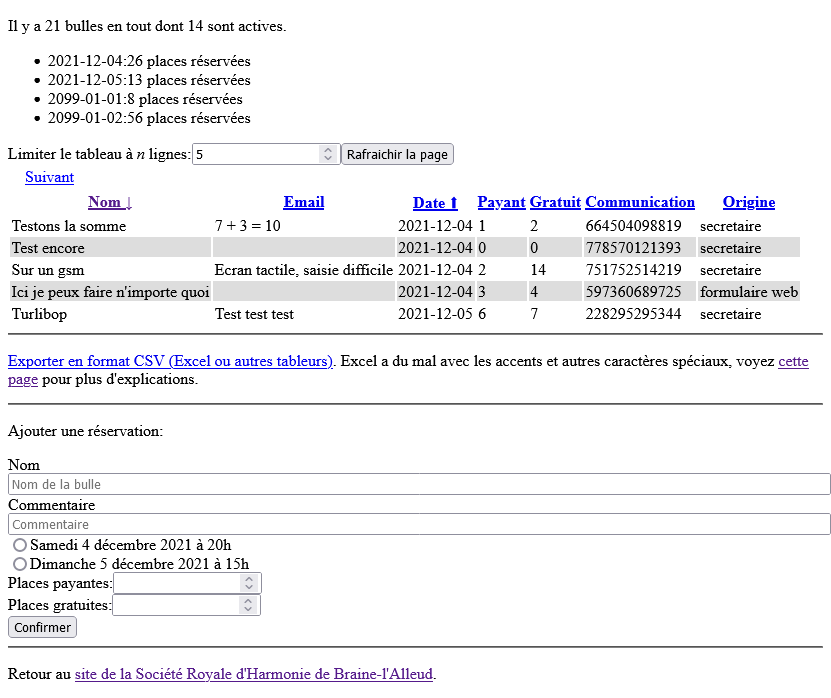
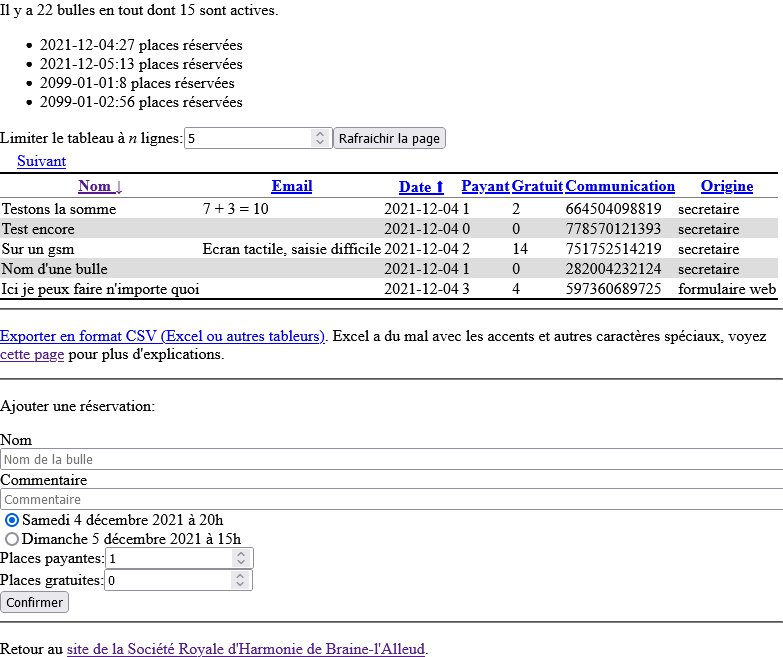
Limit list_reservations to active reservations, continue doc & tweak CSS

Changed region(s): [[0.0, 0.274, 1.0, 0.5784], [0.0, 0.6088, 1.0, 1.0], [0.0, 0.0, 0.5824, 0.274]]

diff --git a/python/srhsdf/tests/golden/06_list_reservations.html b/python/srhsdf/tests/golden/06_list_reservations.html
@@ -1,1 +1,1 @@
-<!DOCTYPE HTML><html lang="fr"><head><meta charset="utf-8"/><meta name="viewport" content="width=device-width, initial-scale=1.0"/><title>List of reservations</title><link rel="stylesheet" href="styles.css"/></head><body><p>Il y a 3 bulles en tout dont 3 sont actives.</p><ul><li>2021-12-04:5 places réservées</li><li>2021-12-05:2 places réservées</li><li>2099-01-01:8 places réservées</li></ul><form action="/TEST_DIR/gestion/list_reservations.cgi"><label for="limit">Limiter le tableau à <em>n</em> lignes:</label><input id="limit" type="number" name="limit" min="5" value="7" max="10000"/><input type="submit" value="Rafraichir la page"/><input id="sort_order" name="sort_order" type="hidden" value="date"/><input id="sort_order" name="sort_order" type="hidden" value="name"/><input id="offset" name="offset" type="hidden" value="1"/></form><ul class="navbar"><li><a class="navigation" href="https://pcrama.sdf-eu.org/TEST_DIR/gestion/list_reservations.cgi?limit=7&amp;offset=0&amp;sort_order=date&amp;sort_order=name">Début</a></li></ul><table><tr><th><a class="navigation" href="https://pcrama.sdf-eu.org/TEST_DIR/gestion/list_reservations.cgi?limit=7&amp;offset=1&amp;sort_order=name&amp;sort_order=date">Nom ↑</a></th><th><a class="navigation" href="https://pcrama.sdf-eu.org/TEST_DIR/gestion/list_reservations.cgi?limit=7&amp;offset=1&amp;sort_order=email&amp;sort_order=date&amp;sort_order=name">Email</a></th><th><a class="navigation" href="https://pcrama.sdf-eu.org/TEST_DIR/gestion/list_reservations.cgi?limit=7&amp;offset=1&amp;sort_order=DATE&amp;sort_order=name">Date ⬆</a></th><th><a class="navigation" href="https://pcrama.sdf-eu.org/TEST_DIR/gestion/list_reservations.cgi?limit=7&amp;offset=1&amp;sort_order=paying_seats&amp;sort_order=date&amp;sort_order=name">Payant</a></th><th><a class="navigation" href="https://pcrama.sdf-eu.org/TEST_DIR/gestion/list_reservations.cgi?limit=7&amp;offset=1&amp;sort_order=free_seats&amp;sort_order=date&amp;sort_order=name">Gratuit</a></th><th><a class="navigation" href="https://pcrama.sdf-eu.org/TEST_DIR/gestion/list_reservations.cgi?limit=7&amp;offset=1&amp;sort_order=bank_id&amp;sort_order=date&amp;sort_order=name">Communication</a></th><th><a class="navigation" href="https://pcrama.sdf-eu.org/TEST_DIR/gestion/list_reservations.cgi?limit=7&amp;offset=1&amp;sort_order=origin&amp;sort_order=date&amp;sort_order=name">Origine</a></th></tr><tr><td>Sunday</td><td>SundayMail@gmx.com</td><td>2021-12-05</td><td>1</td><td>1</td><td>COMMUNICATION Sunday</td><td><span class="null_value">formulaire web</span></td></tr><tr><td>TestName</td><td>Test.Email@example.com</td><td>2099-01-01</td><td>3</td><td>5</td><td>COMMUNICATION TestName</td><td><span class="null_value">formulaire web</span></td></tr></table><hr/><p><a href="export_csv.cgi?name=export.csv">Exporter en format CSV (Excel ou autres tableurs)</a>. Excel a du mal avec les accents et autres caractères spéciaux, voyez <a href="https://www.nextofwindows.com/how-to-display-csv-files-with-unicode-utf-8-encoding-in-excel">cette page</a> pour plus d'explications.</p><hr/><p>Ajouter une réservation:</p><form method="post" action="add_unchecked_reservation.cgi"><input type="hidden" id="csrf_token" name="csrf_token" value="CSRF_TOKEN"/><label for="name">Nom</label><input id="name" name="name" type="text" placeholder="Nom de la bulle" required="required" style="width:100%;"/><br/><label for="comment">Commentaire</label><input id="comment" name="comment" type="text" placeholder="Commentaire" required="required" style="width:100%;"/><br/><input id="samedi" name="date" type="radio" value="2021-12-04"/><label for="samedi">Samedi 4 décembre 2021 à 20h</label><br/><input id="dimanche" name="date" type="radio" value="2021-12-05"/><label for="dimanche">Dimanche 5 décembre 2021 à 15h</label><br/><label for="paying_seats">Places payantes:</label><input id="paying_seats" name="paying_seats" type="number" min="0"/><br/><label for="free_seats">Places gratuites:</label><input id="free_seats" name="free_seats" type="number" min="0"/><br/><input type="submit" value="Confirmer"/></form><hr/><p>Retour au <a href="https://www.srhbraine.be/">site de la Société Royale d'Harmonie de Braine-l'Alleud</a>.</p></body></html>
+<!DOCTYPE HTML><html lang="fr"><head><meta charset="utf-8"/><meta name="viewport" content="width=device-width, initial-scale=1.0"/><title>List of reservations</title><link rel="stylesheet" href="styles.css"/></head><body><p>Il y a 3 bulles en tout dont 3 sont actives.</p><ul><li>2021-12-04:5 places réservées</li><li>2021-12-05:2 places réservées</li><li>2099-01-01:8 places réservées</li></ul><form action="/TEST_DIR/gestion/list_reservations.cgi"><label for="limit">Limiter le tableau à <em>n</em> lignes:</label><input id="limit" type="number" name="limit" min="5" value="7" max="10000"/><input type="submit" value="Rafraichir la page"/><input id="sort_order" name="sort_order" type="hidden" value="date"/><input id="sort_order" name="sort_order" type="hidden" value="name"/><input id="offset" name="offset" type="hidden" value="1"/></form><ul class="navbar"><li><a class="navigation" href="https://pcrama.sdf-eu.org/TEST_DIR/gestion/list_reservations.cgi?limit=7&amp;offset=0&amp;sort_order=date&amp;sort_order=name">Début</a></li></ul><table><tr><th><a class="navigation" href="https://pcrama.sdf-eu.org/TEST_DIR/gestion/list_reservations.cgi?limit=7&amp;offset=1&amp;sort_order=name&amp;sort_order=date">Nom ↑</a></th><th><a class="navigation" href="https://pcrama.sdf-eu.org/TEST_DIR/gestion/list_reservations.cgi?limit=7&amp;offset=1&amp;sort_order=email&amp;sort_order=date&amp;sort_order=name">Email</a></th><th><a class="navigation" href="https://pcrama.sdf-eu.org/TEST_DIR/gestion/list_reservations.cgi?limit=7&amp;offset=1&amp;sort_order=DATE&amp;sort_order=name">Date ⬆</a></th><th><a class="navigation" href="https://pcrama.sdf-eu.org/TEST_DIR/gestion/list_reservations.cgi?limit=7&amp;offset=1&amp;sort_order=paying_seats&amp;sort_order=date&amp;sort_order=name">Payant</a></th><th><a class="navigation" href="https://pcrama.sdf-eu.org/TEST_DIR/gestion/list_reservations.cgi?limit=7&amp;offset=1&amp;sort_order=free_seats&amp;sort_order=date&amp;sort_order=name">Gratuit</a></th><th><a class="navigation" href="https://pcrama.sdf-eu.org/TEST_DIR/gestion/list_reservations.cgi?limit=7&amp;offset=1&amp;sort_order=bank_id&amp;sort_order=date&amp;sort_order=name">Communication</a></th><th><a class="navigation" href="https://pcrama.sdf-eu.org/TEST_DIR/gestion/list_reservations.cgi?limit=7&amp;offset=1&amp;sort_order=origin&amp;sort_order=date&amp;sort_order=name">Origine</a></th></tr><tr><td>Sunday</td><td>SundayMail@gmx.com</td><td>2021-12-05</td><td>1</td><td>1</td><td>COMMUNICATION-Sunday</td><td><span class="null_value">formulaire web</span></td></tr><tr><td>TestName</td><td>Test.Email@example.com</td><td>2099-01-01</td><td>3</td><td>5</td><td>COMMUNICATION-TestName</td><td><span class="null_value">formulaire web</span></td></tr></table><hr/><p><a href="export_csv.cgi?name=export.csv">Exporter en format CSV (Excel ou autres tableurs)</a>. Excel a du mal avec les accents et autres caractères spéciaux, voyez <a href="https://www.nextofwindows.com/how-to-display-csv-files-with-unicode-utf-8-encoding-in-excel">cette page</a> pour plus d'explications.</p><hr/><p>Ajouter une réservation:</p><form method="post" action="add_unchecked_reservation.cgi"><input type="hidden" id="csrf_token" name="csrf_token" value="CSRF_TOKEN"/><label for="name">Nom</label><input id="name" name="name" type="text" placeholder="Nom de la bulle" required="required" style="width:100%;"/><br/><label for="comment">Commentaire</label><input id="comment" name="comment" type="text" placeholder="Commentaire" style="width:100%;"/><br/><input id="samedi" name="date" type="radio" value="2021-12-04" checked="checked"/><label for="samedi">Samedi 4 décembre 2021 à 20h</label><br/><input id="dimanche" name="date" type="radio" value="2021-12-05"/><label for="dimanche">Dimanche 5 décembre 2021 à 15h</label><br/><label for="paying_seats">Places payantes:</label><input id="paying_seats" name="paying_seats" type="number" min="0" value="1"/><br/><label for="free_seats">Places gratuites:</label><input id="free_seats" name="free_seats" type="number" min="0" value="0"/><br/><input type="submit" value="Confirmer"/></form><hr/><p>Retour au <a href="https://www.srhbraine.be/">site de la Société Royale d'Harmonie de Braine-l'Alleud</a>.</p></body></html>

diff --git a/python/srhsdf/tests/golden/01_list_reservations_empty_db.html b/python/srhsdf/tests/golden/01_list_reservations_empty_db.html
@@ -1,1 +1,1 @@
-<!DOCTYPE HTML><html lang="fr"><head><meta charset="utf-8"/><meta name="viewport" content="width=device-width, initial-scale=1.0"/><title>List of reservations</title><link rel="stylesheet" href="styles.css"/></head><body><form action="/TEST_DIR/gestion/list_reservations.cgi"><label for="limit">Limiter le tableau à <em>n</em> lignes:</label><input id="limit" type="number" name="limit" min="5" value="5" max="10000"/><input type="submit" value="Rafraichir la page"/><input id="offset" name="offset" type="hidden" value="0"/></form><table><tr><th><a class="navigation" href="https://pcrama.sdf-eu.org/TEST_DIR/gestion/list_reservations.cgi?limit=5&amp;offset=0&amp;sort_order=name">Nom</a></th><th><a class="navigation" href="https://pcrama.sdf-eu.org/TEST_DIR/gestion/list_reservations.cgi?limit=5&amp;offset=0&amp;sort_order=email">Email</a></th><th><a class="navigation" href="https://pcrama.sdf-eu.org/TEST_DIR/gestion/list_reservations.cgi?limit=5&amp;offset=0&amp;sort_order=date">Date</a></th><th><a class="navigation" href="https://pcrama.sdf-eu.org/TEST_DIR/gestion/list_reservations.cgi?limit=5&amp;offset=0&amp;sort_order=paying_seats">Payant</a></th><th><a class="navigation" href="https://pcrama.sdf-eu.org/TEST_DIR/gestion/list_reservations.cgi?limit=5&amp;offset=0&amp;sort_order=free_seats">Gratuit</a></th><th><a class="navigation" href="https://pcrama.sdf-eu.org/TEST_DIR/gestion/list_reservations.cgi?limit=5&amp;offset=0&amp;sort_order=bank_id">Communication</a></th><th><a class="navigation" href="https://pcrama.sdf-eu.org/TEST_DIR/gestion/list_reservations.cgi?limit=5&amp;offset=0&amp;sort_order=origin">Origine</a></th></tr></table><hr/><p><a href="export_csv.cgi?name=export.csv">Exporter en format CSV (Excel ou autres tableurs)</a>. Excel a du mal avec les accents et autres caractères spéciaux, voyez <a href="https://www.nextofwindows.com/how-to-display-csv-files-with-unicode-utf-8-encoding-in-excel">cette page</a> pour plus d'explications.</p><hr/><p>Ajouter une réservation:</p><form method="post" action="add_unchecked_reservation.cgi"><input type="hidden" id="csrf_token" name="csrf_token" value="CSRF_TOKEN"/><label for="name">Nom</label><input id="name" name="name" type="text" placeholder="Nom de la bulle" required="required" style="width:100%;"/><br/><label for="comment">Commentaire</label><input id="comment" name="comment" type="text" placeholder="Commentaire" required="required" style="width:100%;"/><br/><input id="samedi" name="date" type="radio" value="2021-12-04"/><label for="samedi">Samedi 4 décembre 2021 à 20h</label><br/><input id="dimanche" name="date" type="radio" value="2021-12-05"/><label for="dimanche">Dimanche 5 décembre 2021 à 15h</label><br/><label for="paying_seats">Places payantes:</label><input id="paying_seats" name="paying_seats" type="number" min="0"/><br/><label for="free_seats">Places gratuites:</label><input id="free_seats" name="free_seats" type="number" min="0"/><br/><input type="submit" value="Confirmer"/></form><hr/><p>Retour au <a href="https://www.srhbraine.be/">site de la Société Royale d'Harmonie de Braine-l'Alleud</a>.</p></body></html>
+<!DOCTYPE HTML><html lang="fr"><head><meta charset="utf-8"/><meta name="viewport" content="width=device-width, initial-scale=1.0"/><title>List of reservations</title><link rel="stylesheet" href="styles.css"/></head><body><form action="/TEST_DIR/gestion/list_reservations.cgi"><label for="limit">Limiter le tableau à <em>n</em> lignes:</label><input id="limit" type="number" name="limit" min="5" value="5" max="10000"/><input type="submit" value="Rafraichir la page"/><input id="offset" name="offset" type="hidden" value="0"/></form><table><tr><th><a class="navigation" href="https://pcrama.sdf-eu.org/TEST_DIR/gestion/list_reservations.cgi?limit=5&amp;offset=0&amp;sort_order=name">Nom</a></th><th><a class="navigation" href="https://pcrama.sdf-eu.org/TEST_DIR/gestion/list_reservations.cgi?limit=5&amp;offset=0&amp;sort_order=email">Email</a></th><th><a class="navigation" href="https://pcrama.sdf-eu.org/TEST_DIR/gestion/list_reservations.cgi?limit=5&amp;offset=0&amp;sort_order=date">Date</a></th><th><a class="navigation" href="https://pcrama.sdf-eu.org/TEST_DIR/gestion/list_reservations.cgi?limit=5&amp;offset=0&amp;sort_order=paying_seats">Payant</a></th><th><a class="navigation" href="https://pcrama.sdf-eu.org/TEST_DIR/gestion/list_reservations.cgi?limit=5&amp;offset=0&amp;sort_order=free_seats">Gratuit</a></th><th><a class="navigation" href="https://pcrama.sdf-eu.org/TEST_DIR/gestion/list_reservations.cgi?limit=5&amp;offset=0&amp;sort_order=bank_id">Communication</a></th><th><a class="navigation" href="https://pcrama.sdf-eu.org/TEST_DIR/gestion/list_reservations.cgi?limit=5&amp;offset=0&amp;sort_order=origin">Origine</a></th></tr></table><hr/><p><a href="export_csv.cgi?name=export.csv">Exporter en format CSV (Excel ou autres tableurs)</a>. Excel a du mal avec les accents et autres caractères spéciaux, voyez <a href="https://www.nextofwindows.com/how-to-display-csv-files-with-unicode-utf-8-encoding-in-excel">cette page</a> pour plus d'explications.</p><hr/><p>Ajouter une réservation:</p><form method="post" action="add_unchecked_reservation.cgi"><input type="hidden" id="csrf_token" name="csrf_token" value="CSRF_TOKEN"/><label for="name">Nom</label><input id="name" name="name" type="text" placeholder="Nom de la bulle" required="required" style="width:100%;"/><br/><label for="comment">Commentaire</label><input id="comment" name="comment" type="text" placeholder="Commentaire" style="width:100%;"/><br/><input id="samedi" name="date" type="radio" value="2021-12-04" checked="checked"/><label for="samedi">Samedi 4 décembre 2021 à 20h</label><br/><input id="dimanche" name="date" type="radio" value="2021-12-05"/><label for="dimanche">Dimanche 5 décembre 2021 à 15h</label><br/><label for="paying_seats">Places payantes:</label><input id="paying_seats" name="paying_seats" type="number" min="0" value="1"/><br/><label for="free_seats">Places gratuites:</label><input id="free_seats" name="free_seats" type="number" min="0" value="0"/><br/><input type="submit" value="Confirmer"/></form><hr/><p>Retour au <a href="https://www.srhbraine.be/">site de la Société Royale d'Harmonie de Braine-l'Alleud</a>.</p></body></html>

diff --git a/python/srhsdf/tests/golden/11_deactivate_a_reservation.html b/python/srhsdf/tests/golden/11_deactivate_a_reservation.html
@@ -1,0 +1,1 @@
+<!DOCTYPE HTML><html lang="fr"><head><meta charset="utf-8"/><meta name="viewport" content="width=device-width, initial-scale=1.0"/><title>List of reservations</title><link rel="stylesheet" href="styles.css"/></head><body><p>Il y a 4 bulles en tout dont 3 sont actives.</p><ul><li>2021-12-04:5 places réservées</li><li>2021-12-05:2 places réservées</li><li>2099-01-01:1 place réservée</li></ul><form action="/TEST_DIR/gestion/list_reservations.cgi"><label for="limit">Limiter le tableau à <em>n</em> lignes:</label><input id="limit" type="number" name="limit" min="5" value="17" max="10000"/><input type="submit" value="Rafraichir la page"/><input id="sort_order" name="sort_order" type="hidden" value="PAYING_SEATS"/><input id="sort_order" name="sort_order" type="hidden" value="name"/><input id="offset" name="offset" type="hidden" value="0"/></form><table><tr><th><a class="navigation" href="https://pcrama.sdf-eu.org/TEST_DIR/gestion/list_reservations.cgi?limit=17&amp;offset=0&amp;sort_order=name&amp;sort_order=PAYING_SEATS">Nom ↑</a></th><th><a class="navigation" href="https://pcrama.sdf-eu.org/TEST_DIR/gestion/list_reservations.cgi?limit=17&amp;offset=0&amp;sort_order=email&amp;sort_order=PAYING_SEATS&amp;sort_order=name">Email</a></th><th><a class="navigation" href="https://pcrama.sdf-eu.org/TEST_DIR/gestion/list_reservations.cgi?limit=17&amp;offset=0&amp;sort_order=date&amp;sort_order=PAYING_SEATS&amp;sort_order=name">Date</a></th><th><a class="navigation" href="https://pcrama.sdf-eu.org/TEST_DIR/gestion/list_reservations.cgi?limit=17&amp;offset=0&amp;sort_order=name">Payant ⬇</a></th><th><a class="navigation" href="https://pcrama.sdf-eu.org/TEST_DIR/gestion/list_reservations.cgi?limit=17&amp;offset=0&amp;sort_order=free_seats&amp;sort_order=PAYING_SEATS&amp;sort_order=name">Gratuit</a></th><th><a class="navigation" href="https://pcrama.sdf-eu.org/TEST_DIR/gestion/list_reservations.cgi?limit=17&amp;offset=0&amp;sort_order=bank_id&amp;sort_order=PAYING_SEATS&amp;sort_order=name">Communication</a></th><th><a class="navigation" href="https://pcrama.sdf-eu.org/TEST_DIR/gestion/list_reservations.cgi?limit=17&amp;offset=0&amp;sort_order=origin&amp;sort_order=PAYING_SEATS&amp;sort_order=name">Origine</a></th></tr><tr><td>Saturday</td><td>Saturday@gmail.com</td><td>2021-12-04</td><td>4</td><td>1</td><td>COMMUNICATION-Saturday</td><td><span class="null_value">formulaire web</span></td></tr><tr><td>Sunday</td><td>SundayMail@gmx.com</td><td>2021-12-05</td><td>1</td><td>1</td><td>COMMUNICATION-Sunday</td><td><span class="null_value">formulaire web</span></td></tr><tr><td>TestCreatedByAdmin</td><td>ByAdmin</td><td>2099-01-01</td><td>0</td><td>1</td><td>COMMUNICATION-TestCreatedByAdmin</td><td>test_admin</td></tr></table><hr/><p><a href="export_csv.cgi?name=export.csv">Exporter en format CSV (Excel ou autres tableurs)</a>. Excel a du mal avec les accents et autres caractères spéciaux, voyez <a href="https://www.nextofwindows.com/how-to-display-csv-files-with-unicode-utf-8-encoding-in-excel">cette page</a> pour plus d'explications.</p><hr/><p>Ajouter une réservation:</p><form method="post" action="add_unchecked_reservation.cgi"><input type="hidden" id="csrf_token" name="csrf_token" value="CSRF_TOKEN"/><label for="name">Nom</label><input id="name" name="name" type="text" placeholder="Nom de la bulle" required="required" style="width:100%;"/><br/><label for="comment">Commentaire</label><input id="comment" name="comment" type="text" placeholder="Commentaire" style="width:100%;"/><br/><input id="samedi" name="date" type="radio" value="2021-12-04" checked="checked"/><label for="samedi">Samedi 4 décembre 2021 à 20h</label><br/><input id="dimanche" name="date" type="radio" value="2021-12-05"/><label for="dimanche">Dimanche 5 décembre 2021 à 15h</label><br/><label for="paying_seats">Places payantes:</label><input id="paying_seats" name="paying_seats" type="number" min="0" value="1"/><br/><label for="free_seats">Places gratuites:</label><input id="free_seats" name="free_seats" type="number" min="0" value="0"/><br/><input type="submit" value="Confirmer"/></form><hr/><p>Retour au <a href="https://www.srhbraine.be/">site de la Société Royale d'Harmonie de Braine-l'Alleud</a>.</p></body></html>

diff --git a/python/srhsdf/app/gestion/styles.css b/python/srhsdf/app/gestion/styles.css
@@ -28,7 +28,19 @@ a.navigation {
 }
 
 table {
-    border: 0px;
+    border-collapse: collapse;
+}
+
+table tr:first-child {
+    border-top: 2px solid black;
+}
+
+th {
+    border-bottom: 1px solid grey;
+}
+
+table tr:last-child {
+    border-bottom: 2px solid black;
 }
 
 tr th {
